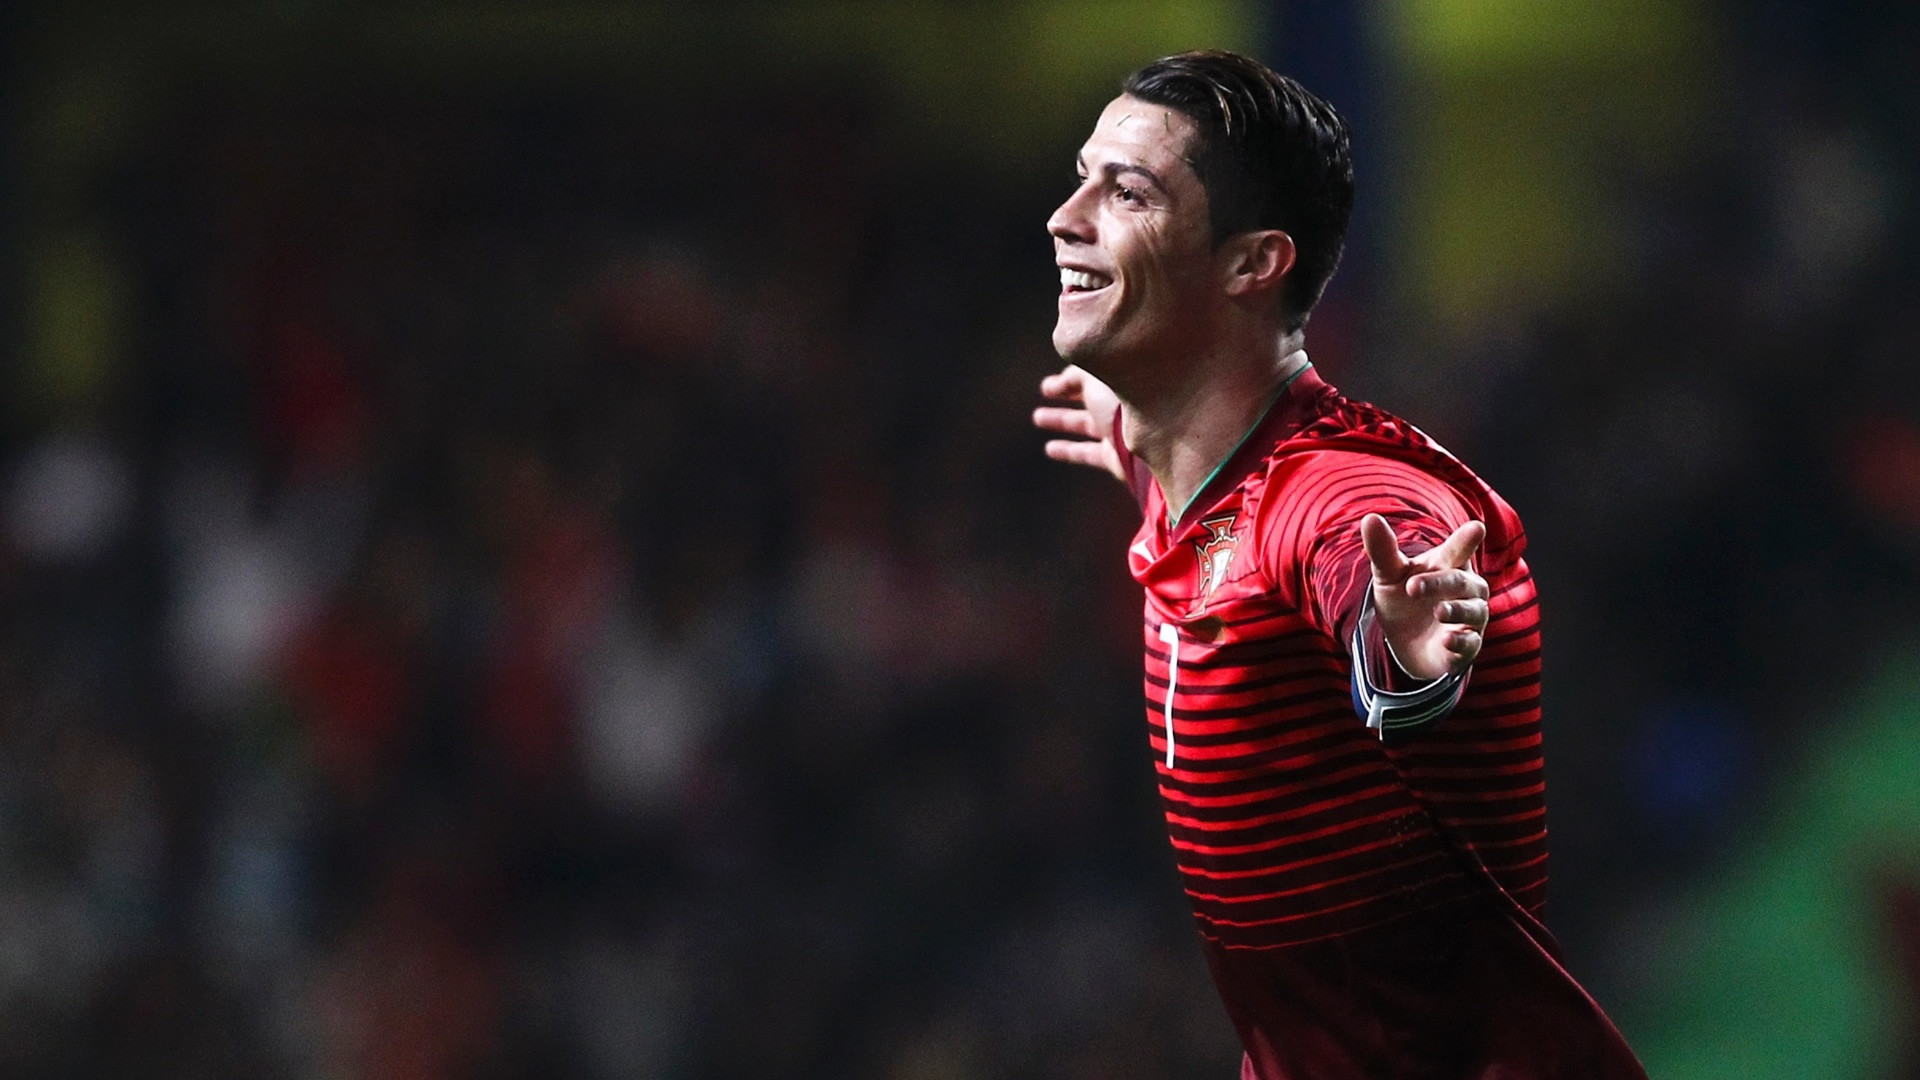
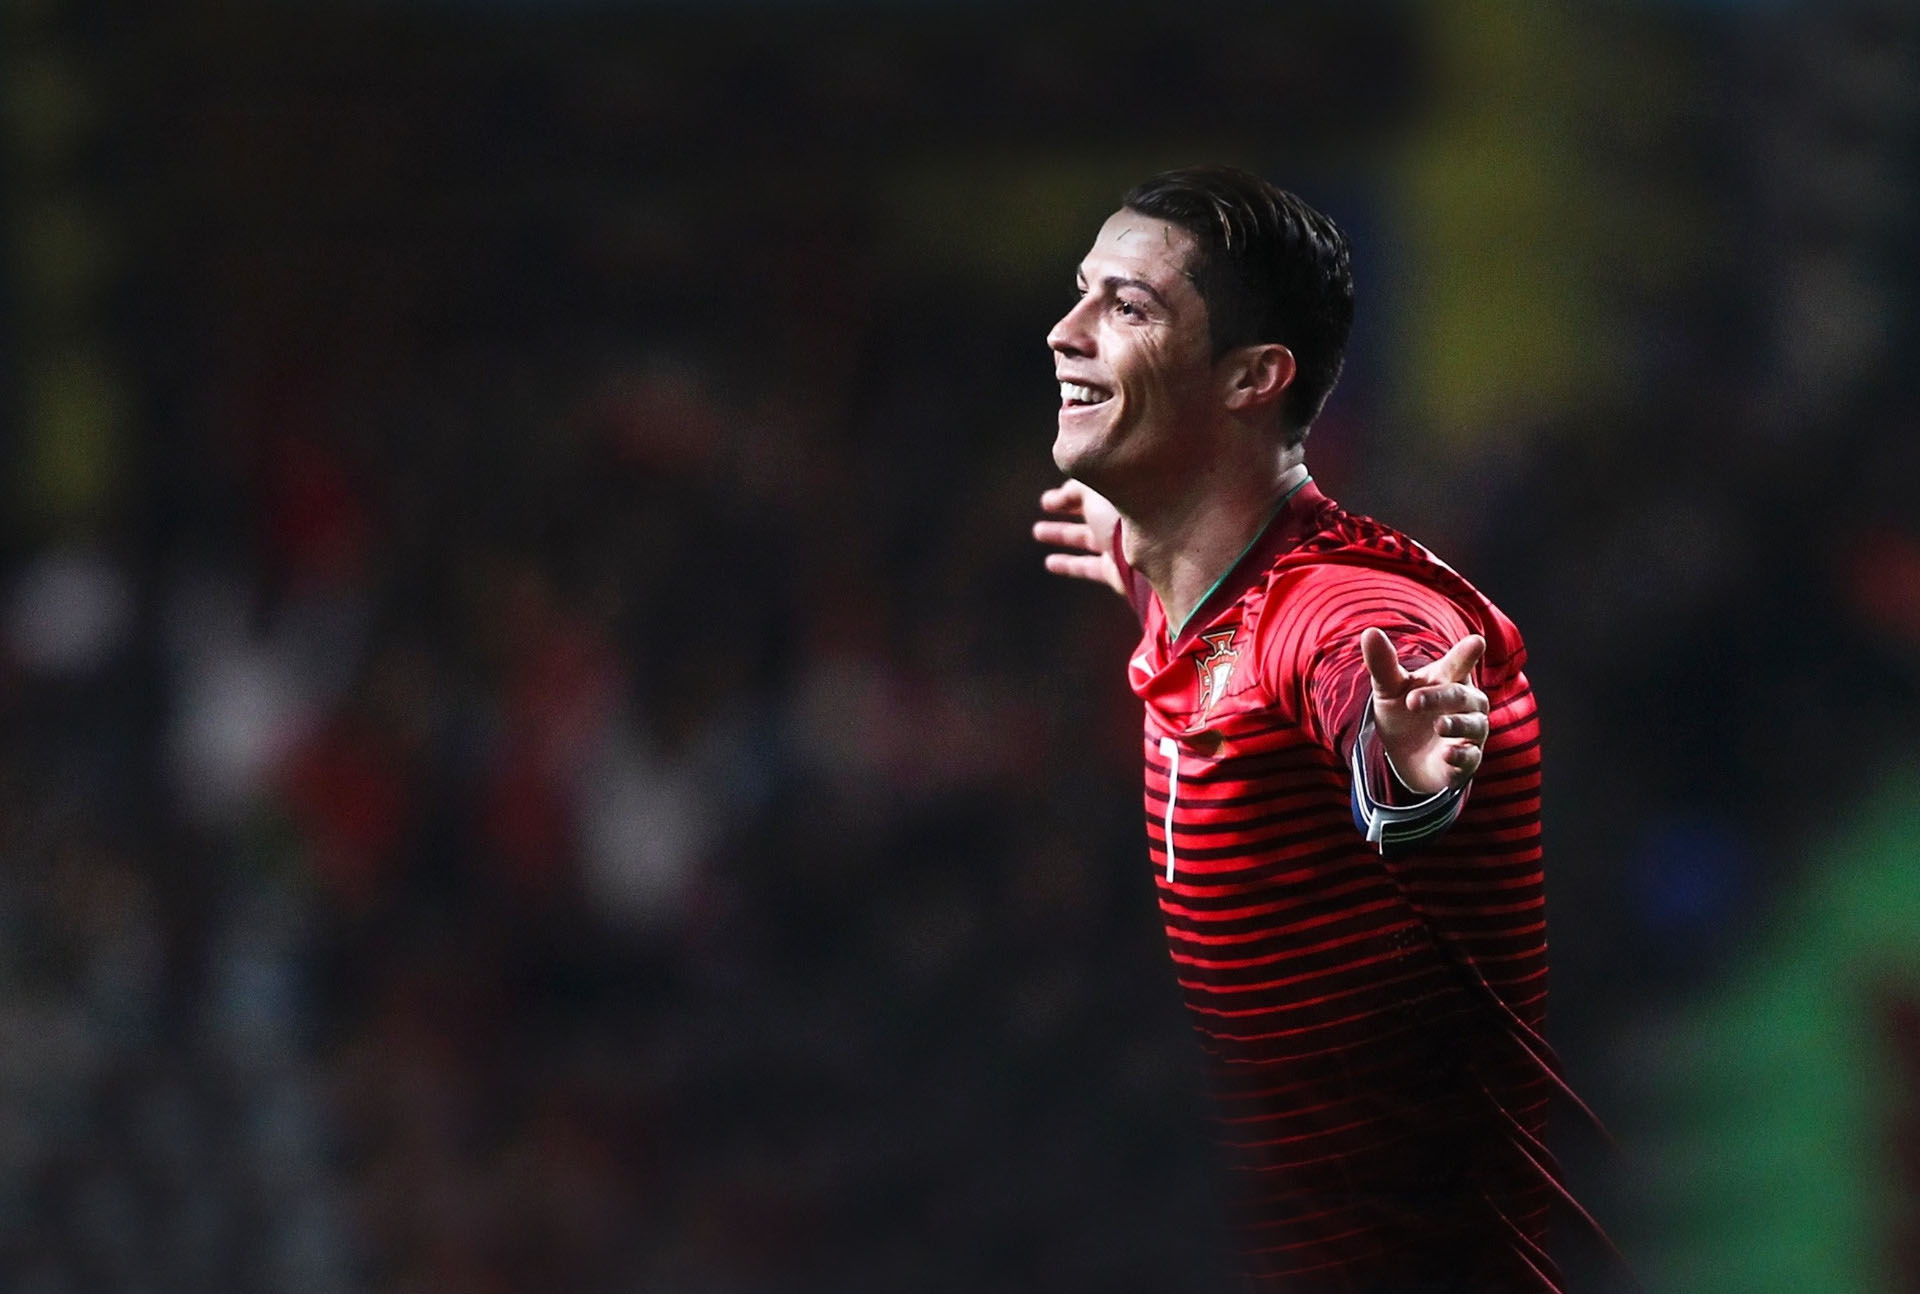
style: updated slider and images

diff --git a/src/components/hero/Hero.tsx b/src/components/hero/Hero.tsx
@@ -2,33 +2,32 @@ import React from 'react'
 import { Slide } from 'react-slideshow-image'
 import 'react-slideshow-image/dist/styles.css'
 import { slideImages } from './data/slideData'
-
-const spanStyle = {
-  padding: '20px',
-  background: '#efefef',
-  color: '#000000',
-}
-
-const divStyle = {
-  display: 'flex',
-  alignItems: 'center',
-  justifyContent: 'center',
-  backgroundSize: 'cover',
-  height: '400px',
-}
+import Image from 'next/image'
 
 export const Hero = () => {
-  const slidesJsx = slideImages.map(({ key, image, text }) => (
-    <div key={key}>
-      <div style={{ ...divStyle, backgroundImage: `url(${image})` }}>
-        <span style={spanStyle}>{text}</span>
+  const SlidesJsx = slideImages.map(({ key, image, alt, text }) => (
+    <div key={key} className="slide-container w-full h-[620px] relative">
+      <Image
+        src={`/slideImages/${image}`}
+        alt={alt}
+        fill
+        style={{ objectFit: 'cover' }}
+      />
+      <div className="absolute flex flex-col justify-center items-start left-32 max-w-md h-full">
+        <p className=" text-white font-bold text-7xl ">{text}</p>
+        <button className="bg-white px-4 py-2 rounded my-8">Shop Now</button>
       </div>
     </div>
   ))
 
+  const properties = {
+    prevArrow: <></>,
+    nextArrow: <></>,
+  }
+
   return (
-    <div className="slide-container">
-      <Slide>{slidesJsx}</Slide>
-    </div>
+    <section className="relative">
+      <Slide {...properties}>{SlidesJsx}</Slide>
+    </section>
   )
 }

diff --git a/src/components/hero/data/slideData.ts b/src/components/hero/data/slideData.ts
@@ -1,18 +1,21 @@
 export const slideImages = [
   {
+    key: 2,
+    image: 'boot_blue_bg2.webp',
+    alt: 'Blue Boots',
+    text: 'Sale. 20% off all boots',
+  },
+  {
     key: 0,
-    image: 'ronaldo.jpg',
+    image: 'ronaldo2.jpg',
+    alt: 'Christiano Ronaldo',
     text: 'New Ronaldo CR7 Collection now in stock',
   },
   {
     key: 1,
     image: 'adidas_black_white.webp',
+    alt: 'Adidas Black and White Boots',
     text: 'New adidas collection now in stock',
-  },
-  {
-    key: 2,
-    image: 'boot_blue_bg2.webp',
-    text: 'Sale. 20% off all boots',
   },
 ]
 
